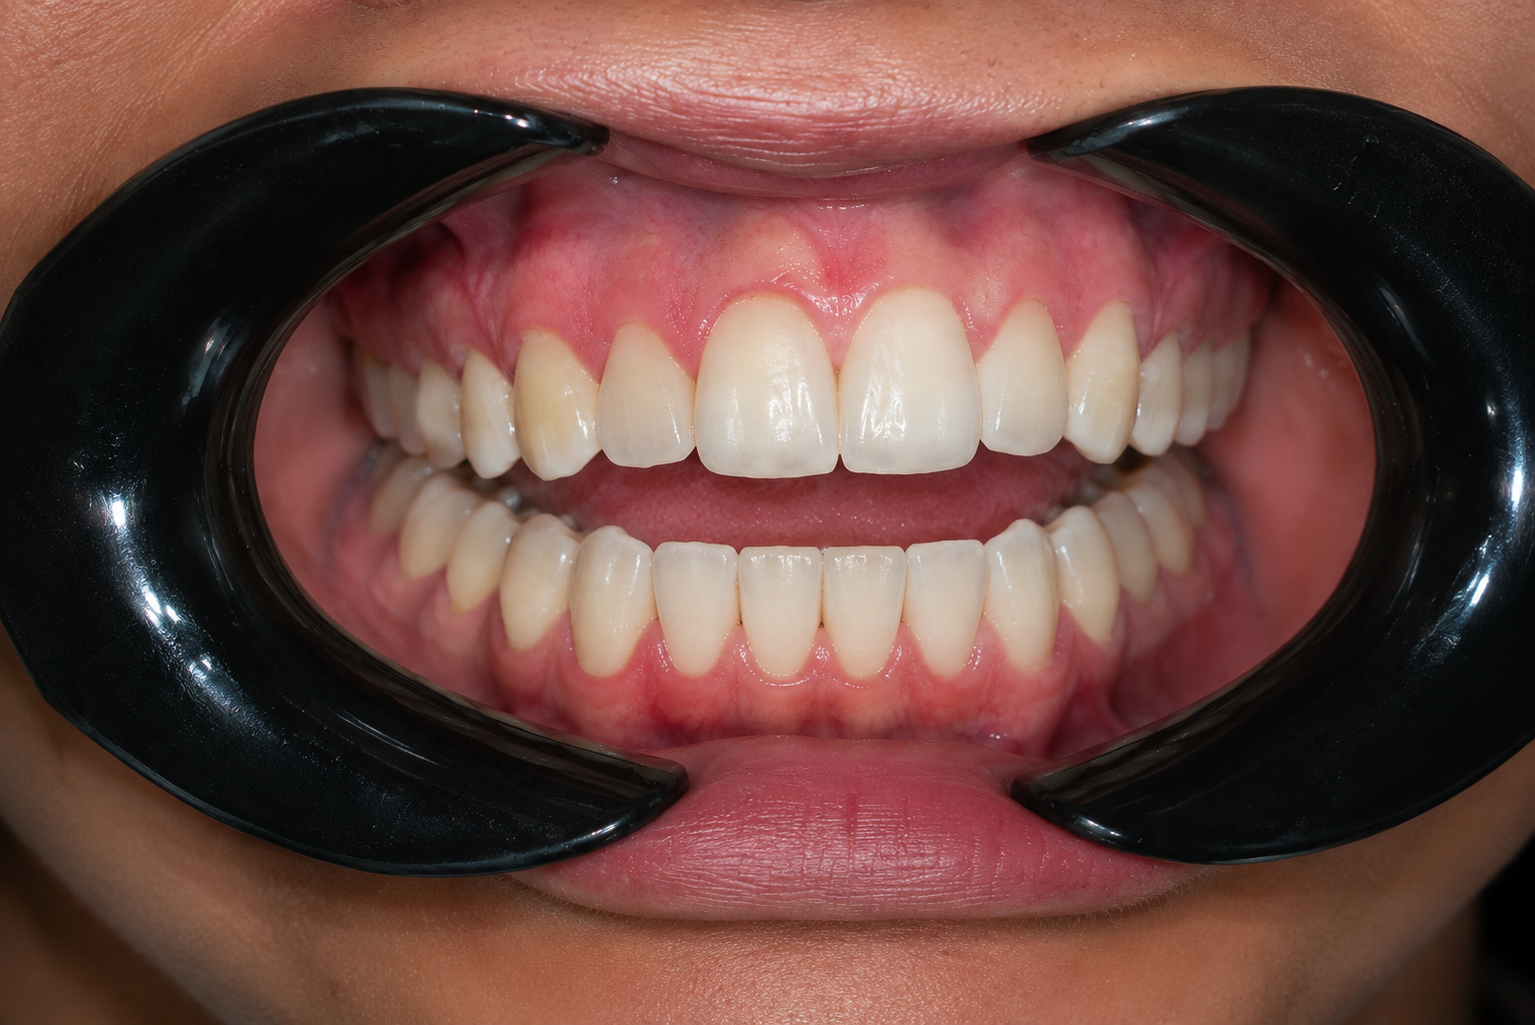
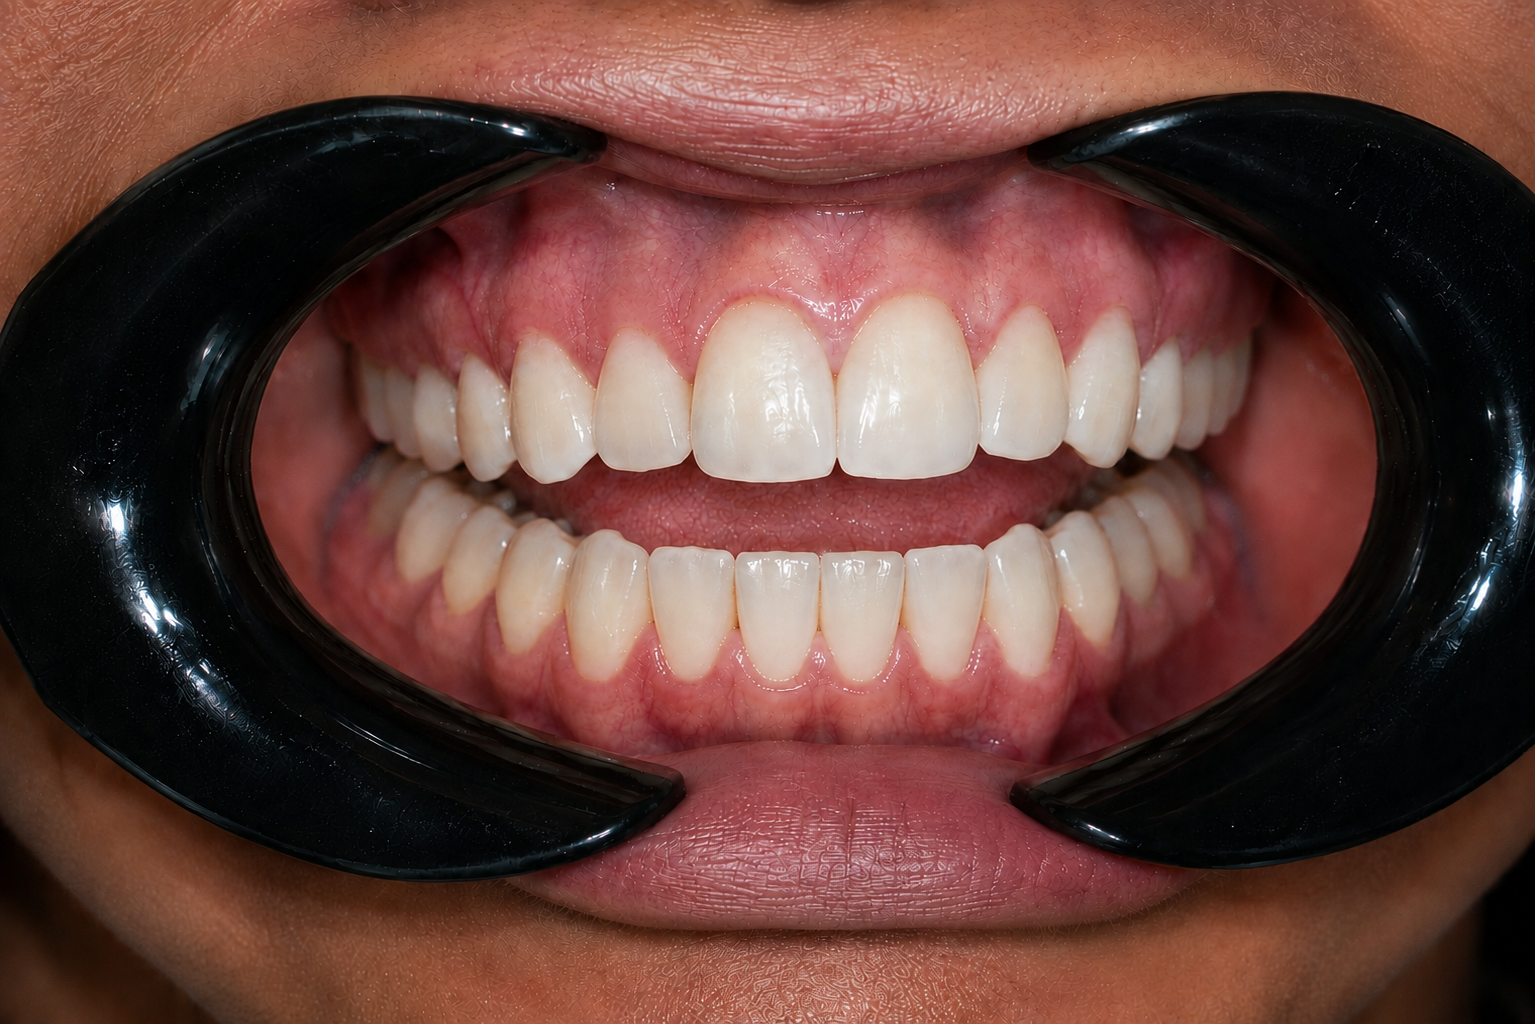
feat: sumar 3 casos nuevos a Nuestro Trabajo y quitar íconos de las tarjetas
- Se agregan 3 pares antes/después reales: dos casos de carillas
  dentales y uno de restauración con resina, además de los 3 casos
  existentes (ahora 6 en total).
- Se reemplaza la foto "después" del caso de blanqueamiento por la
  versión nueva que se subió.
- Se quita el ícono que acompañaba el título en cada tarjeta del
  selector interactivo — solo queda el nombre del tratamiento.

diff --git a/frontend/src/app/landing/ui/landing/landing.ts b/frontend/src/app/landing/ui/landing/landing.ts
@@ -179,7 +179,6 @@ export class LandingComponent implements AfterViewInit, OnDestroy {
   protected readonly workItems: WorkShowcaseItem[] = [
     {
       id: 1,
-      icon: 'sentiment_very_satisfied',
       titleKey: 'landing.work.items.smile.treatment',
       beforeUrl: 'assets/images/work/Antes1.png',
       beforeAlt: 'landing.work.items.smile.beforeAlt',
@@ -188,7 +187,6 @@ export class LandingComponent implements AfterViewInit, OnDestroy {
     },
     {
       id: 2,
-      icon: 'light_mode',
       titleKey: 'landing.work.items.whitening.treatment',
       beforeUrl: 'assets/images/work/Antes2.png',
       beforeAlt: 'landing.work.items.whitening.beforeAlt',
@@ -197,12 +195,35 @@ export class LandingComponent implements AfterViewInit, OnDestroy {
     },
     {
       id: 3,
-      icon: 'straighten',
       titleKey: 'landing.work.items.ortho.treatment',
       beforeUrl: 'assets/images/work/Antes3.png',
       beforeAlt: 'landing.work.items.ortho.beforeAlt',
       afterUrl: 'assets/images/work/Despues3.png',
       afterAlt: 'landing.work.items.ortho.afterAlt',
+    },
+    {
+      id: 4,
+      titleKey: 'landing.work.items.veneers1.treatment',
+      beforeUrl: 'assets/images/work/Antes4.png',
+      beforeAlt: 'landing.work.items.veneers1.beforeAlt',
+      afterUrl: 'assets/images/work/Despues4.png',
+      afterAlt: 'landing.work.items.veneers1.afterAlt',
+    },
+    {
+      id: 5,
+      titleKey: 'landing.work.items.resin.treatment',
+      beforeUrl: 'assets/images/work/Antes5.png',
+      beforeAlt: 'landing.work.items.resin.beforeAlt',
+      afterUrl: 'assets/images/work/Despues5.png',
+      afterAlt: 'landing.work.items.resin.afterAlt',
+    },
+    {
+      id: 6,
+      titleKey: 'landing.work.items.veneers2.treatment',
+      beforeUrl: 'assets/images/work/Antes6.png',
+      beforeAlt: 'landing.work.items.veneers2.beforeAlt',
+      afterUrl: 'assets/images/work/Despues6.png',
+      afterAlt: 'landing.work.items.veneers2.afterAlt',
     },
   ];
 

diff --git a/frontend/src/app/shared/ui/work-showcase/work-showcase.ts b/frontend/src/app/shared/ui/work-showcase/work-showcase.ts
@@ -3,7 +3,6 @@ import { TranslatePipe } from '@ngx-translate/core';
 
 export interface WorkShowcaseItem {
   readonly id: number;
-  readonly icon: string;
   readonly titleKey: string;
   readonly beforeUrl: string;
   readonly beforeAlt: string;
@@ -13,8 +12,8 @@ export interface WorkShowcaseItem {
 
 /**
  * Selector interactivo de casos: fila de paneles que se expanden al click
- * (el resto queda como una franja angosta con solo el ícono). El panel
- * activo muestra la comparación antes/después completa; los demás, solo
+ * (el resto queda como una franja angosta). El panel activo muestra la
+ * comparación antes/después completa; los demás, solo
  * la foto "después" como preview. Puerto a Angular de un patrón React
  * equivalente — sin animación de entrada propia, reusa el sistema de
  * scroll-reveal (GSAP) ya existente en la landing vía [data-reveal-item].

diff --git a/frontend/src/app/shared/ui/work-showcase/work-showcase.scss b/frontend/src/app/shared/ui/work-showcase/work-showcase.scss
@@ -121,25 +121,6 @@
   pointer-events: none;
 }
 
-.work-panel__icon {
-  display: inline-flex;
-  align-items: center;
-  justify-content: center;
-  width: 2.75rem;
-  height: 2.75rem;
-  flex-shrink: 0;
-  border-radius: var(--radius-full);
-  background: rgb(0 0 0 / 0.45);
-  border: 1.5px solid rgb(255 255 255 / 0.35);
-  backdrop-filter: blur(6px);
-  -webkit-backdrop-filter: blur(6px);
-  color: var(--color-cream);
-
-  .material-symbols-outlined {
-    font-size: 1.375rem;
-  }
-}
-
 .work-panel__title {
   font-family: var(--font-headline);
   font-size: var(--font-size-lg);

diff --git a/frontend/src/app/shared/ui/work-showcase/work-showcase.html b/frontend/src/app/shared/ui/work-showcase/work-showcase.html
@@ -32,9 +32,6 @@
       <div class="work-panel__scrim"></div>
 
       <div class="work-panel__label">
-        <span class="work-panel__icon">
-          <span class="material-symbols-outlined" aria-hidden="true">{{ item.icon }}</span>
-        </span>
         <span class="work-panel__title">{{ item.titleKey | translate }}</span>
       </div>
     </button>
